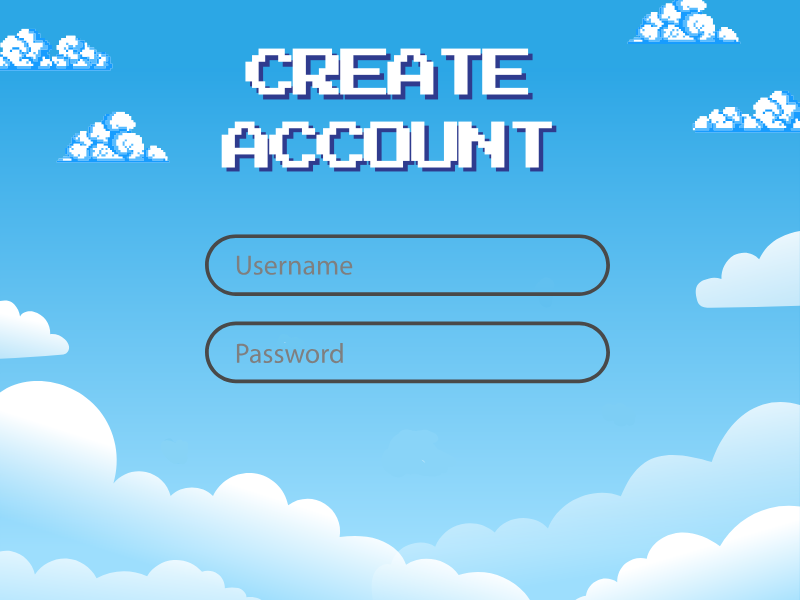
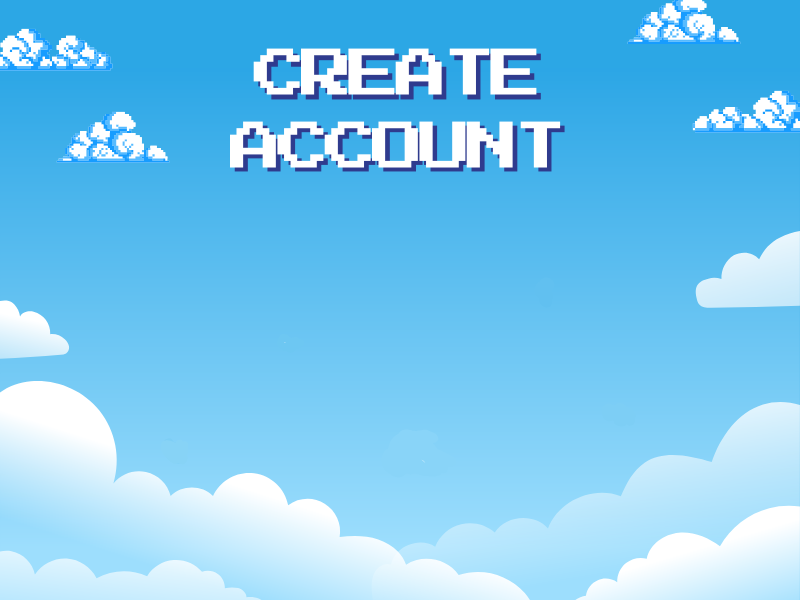
added the input boxes (username and password) for both functions register and login

Changed region(s): [[0.25, 0.39, 0.7812, 0.66], [0.25, 0.06, 0.7188, 0.3], [0.75, 0.42, 0.7812, 0.48]]

diff --git a/Game.cpp b/Game.cpp
@@ -1,8 +1,9 @@
-#include <iostream>
+#include <iostream>
 #include <SFML/Graphics.hpp>
 #include "Game.h"
 #include "Board.h"
 #include <SFML/Audio.hpp>
+#include "TextBox.cpp"
 #include <ctime>
 using namespace std;
 using namespace sf;
@@ -23,44 +24,102 @@ Game::Game() {
 }
 
 void Game::drawLoginForm() {
+    //Left Right
+    TextBox usernameBox(290, 250, 300, 40);
+    TextBox passwordBox(290, 310, 300, 40, true);
+
+    Font font;
+    font.loadFromFile("arial.ttf");
+
+    Text usernameLabel("Username: ", font, 24);
+    usernameLabel.setPosition(160,250);
+    Text passwordLabel("Password: ", font, 24);
+    passwordLabel.setPosition(160,315);
+
+    Text ErrorText("Error!! You must enter both password and username", font, 22);
+    ErrorText.setPosition(200, 370);
+    ErrorText.setFillColor(Color::Red);
+    bool errorInput = false;
+    Clock errorClock;
+
 
     Texture tLogin; tLogin.loadFromFile("assets/loginData.png");
     Sprite background(tLogin);
 
     Texture tLog;tLog.loadFromFile("assets/login.png");
     Sprite loginButton(tLog);
-    loginButton.setPosition(400, 470);
+    loginButton.setPosition(440, 460);
     loginButton.setScale(.15f, .15f);
     loginButton.setOrigin(tLog.getSize().x / 2.f, tLog.getSize().y / 2.f);
 
-    sf::FloatRect bounds = loginButton.getGlobalBounds();
-    sf::RectangleShape debugRect(sf::Vector2f(bounds.width, bounds.height));
-    debugRect.setPosition(bounds.left, bounds.top);
-    debugRect.setFillColor(sf::Color::Transparent);
-    debugRect.setOutlineThickness(2);
-    debugRect.setOutlineColor(sf::Color::Red);
 
-    RenderWindow loginForm(VideoMode(800, 600), "Login");
+    RenderWindow loginForm(VideoMode(800, 600), "Login Form");
     while (loginForm.isOpen()) {
         Event e;
         while (loginForm.pollEvent(e)) {
-            if (e.type == Event::Closed) loginForm.close();
+            if (e.type == Event::Closed) exit(0);
             Vector2i mousePos = Mouse::getPosition(loginForm);
             Vector2f mPosF(static_cast<float>(mousePos.x), static_cast<float>(mousePos.y));
 
+            usernameBox.handleEvent(e, loginForm);
+            passwordBox.handleEvent(e, loginForm);
 
+
+            //Enter
+            if (e.type == Event::KeyPressed && e.key.code == Keyboard::Enter) {
+
+                string username = usernameBox.getText();
+                string password = passwordBox.getText();
+
+                if (username == "" || password == "") {
+                    cout << "HMMM" << endl;
+                    errorInput = true;
+                    errorClock.restart();
+                }
+                else {
+
+
+                    
+                    cout << "Username: " << username << "\n";
+                    cout << "Password: " << password << "\n";
+                    // ⚡ Later we’ll verify user or save to JSON here
+                    loginForm.close();
+                }
+
+               
+                
+            }
+            //Login button manually
             if (loginButton.getGlobalBounds().contains(mPosF)) {
                 loginButton.setScale(.16f, .16f);
 
                 if (e.type == Event::MouseButtonPressed) {
                     cout << "Checking if the acount exists..."<<endl;
                     cout << "Exist -> welcome ifNOT -> ERROR" << endl;
+
+                    string username = usernameBox.getText();
+                    string password = passwordBox.getText();
+
+                    if (username == "" || password == "") {
+                        cout << "HMMM" << endl;
+                        errorInput = true;
+                        errorClock.restart();  
+                    }
+                    else {
+                        errorInput = false;
+                        cout << "Username: " << username << "\n";
+                        cout << "Password: " << password << "\n";
+                        // ⚡ Later we’ll verify user or save to JSON here
+                        loginForm.close();
+                    }
+
+                   
+                   
                 }
 
             }
             else {
                 loginButton.setScale(.15f, .15f);
-
             }
 
 
@@ -70,6 +129,13 @@ void Game::drawLoginForm() {
         loginForm.clear();
         loginForm.draw(background);
         loginForm.draw(loginButton);
+        loginForm.draw(usernameLabel);
+        loginForm.draw(passwordLabel);
+        usernameBox.draw(loginForm);
+        passwordBox.draw(loginForm);
+        if (errorInput && errorClock.getElapsedTime().asSeconds() < 2.f) {
+        loginForm.draw(ErrorText);
+        }
         loginForm.display();
         
     }
@@ -77,7 +143,25 @@ void Game::drawLoginForm() {
 
 }
 void Game::drawRegisterForm() {
- 
+
+    TextBox usernameBox(290, 220, 300, 40);
+    TextBox passwordBox(290, 280, 300, 40, true);
+
+    Font font;
+    font.loadFromFile("arial.ttf");
+
+    Text usernameLabel("Username: ", font, 24);
+    usernameLabel.setPosition(160, 220);
+    Text passwordLabel("Password: ", font, 24);
+    passwordLabel.setPosition(160, 285);
+
+    Text ErrorText("Error!! You must enter both password and username", font, 22);
+    ErrorText.setPosition(200, 370);
+    ErrorText.setFillColor(Color::Red);
+    bool errorInput = false;
+    Clock errorClock;
+
+    //------------------------------------------------------------ 
     Texture treg; treg.loadFromFile("assets/registerData.png");
     Sprite background(treg);
 
@@ -89,7 +173,7 @@ void Game::drawRegisterForm() {
 
   
 
-    RenderWindow registerForm(VideoMode(800, 600), "Register");
+    RenderWindow registerForm(VideoMode(800, 600), "Register Form");
     while (registerForm.isOpen()) {
         Event event;
         while (registerForm.pollEvent(event)) {
@@ -98,6 +182,8 @@ void Game::drawRegisterForm() {
             Vector2i mousePos = Mouse::getPosition(registerForm);
             Vector2f mPosF(static_cast<float>(mousePos.x), static_cast<float>(mousePos.y));
 
+            usernameBox.handleEvent(event, registerForm);
+            passwordBox.handleEvent(event, registerForm);
 
             if (registerButton.getGlobalBounds().contains(mPosF)) {
                 registerButton.setScale(.15f, .15f);
@@ -105,6 +191,25 @@ void Game::drawRegisterForm() {
                 if (event.type == Event::MouseButtonPressed) {
                     cout << "IF account exist tell them to log in instead...." << endl;
                     cout << "IF NOT create the account!" << endl;
+
+                    string username = usernameBox.getText();
+                    string password = passwordBox.getText();
+
+
+                    if (username == "" || password == "") {
+                        errorInput = true;
+                        errorClock.restart();
+                        cout << "Error!" << endl;
+                    }
+                    else {
+                        cout << "Username: " << username << "\n";
+                        cout << "Password: " << password << "\n";
+
+                        // ⚡ Later we’ll verify user or save to JSON here
+                        registerForm.close();
+                    }
+
+                   
                 }
 
             }
@@ -117,6 +222,13 @@ void Game::drawRegisterForm() {
             registerForm.clear();
             registerForm.draw(background);
             registerForm.draw(registerButton);
+            registerForm.draw(usernameLabel);
+            registerForm.draw(passwordLabel);
+            usernameBox.draw(registerForm);
+            passwordBox.draw(registerForm);
+            if (errorInput && errorClock.getElapsedTime().asSeconds() < 2.f) {
+                registerForm.draw(ErrorText);
+            }
             registerForm.display();
         }
 

diff --git a/TextBox.cpp b/TextBox.cpp
@@ -1,0 +1,68 @@
+#pragma once
+#include <SFML/Graphics.hpp>
+#include <string>
+using namespace std;
+using namespace sf;
+
+
+class TextBox {
+private:
+    RectangleShape box;
+    Text text;
+    Font font;
+    bool isSelected = false;
+    bool isPassword = false;
+    string input;
+    int maxChars = 10;
+
+public:
+    TextBox(float x, float y, float width, float height, bool password = false) {
+        font.loadFromFile("arial.ttf"); 
+        isPassword = password;
+
+        box.setPosition(x, y);
+        box.setSize({ width, height });
+        box.setFillColor(Color(255, 255, 255, 255));
+        box.setOutlineColor(Color::Black);
+        box.setOutlineThickness(2);
+
+        text.setFont(font);
+        text.setCharacterSize(24);
+        text.setFillColor(Color::Black);
+        text.setPosition(x + 10, y + 5);
+    }
+
+    void handleEvent(const Event& event, const RenderWindow& window) {
+        if (event.type == Event::MouseButtonPressed) {
+            Vector2f mousePos = (Vector2f)Mouse::getPosition(window);
+            isSelected = box.getGlobalBounds().contains(mousePos);
+            box.setOutlineColor(isSelected ? Color::Cyan : Color::Black);
+        }
+
+        if (isSelected && event.type == Event::TextEntered) {
+            if (event.text.unicode == 8) { // Backspace deletes! very important
+                if (!input.empty()) input.pop_back();
+            }
+            else if (event.text.unicode == 13) {
+                isSelected = false; // Enter key = stop typing
+            }
+            else if (event.text.unicode >= 32 && event.text.unicode <= 126) {
+                if (input.size() < maxChars) {
+                    input += static_cast<char>(event.text.unicode);
+                }
+               // else nothing happens it doesn't add anything else :)
+            }
+
+            string display = isPassword ? string(input.size(), '*') : input; // type text is hidden by *
+            text.setString(display); // just to display the **
+        }
+    }
+
+    void draw(RenderWindow& window) {
+        window.draw(box);
+        window.draw(text);
+    }
+
+    string getText() const { return input; }
+    void clear() { input.clear(); text.setString(""); }
+};
